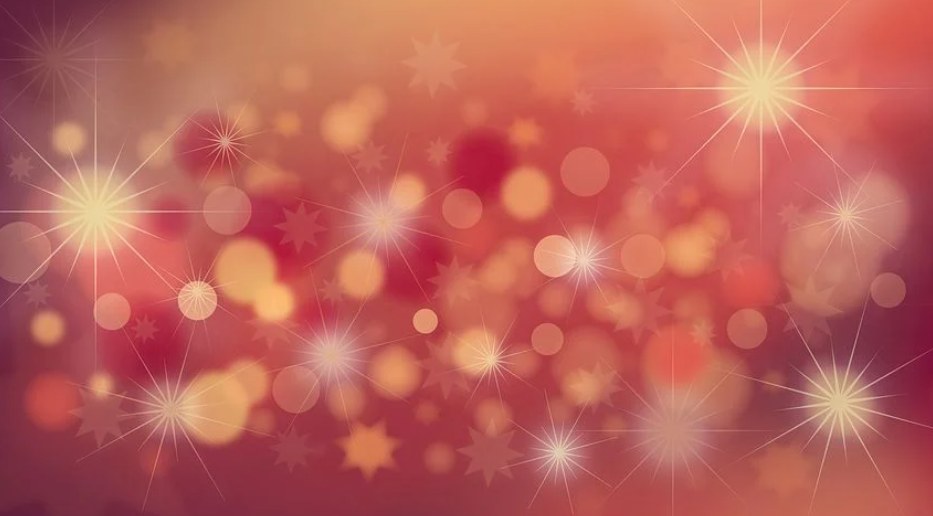
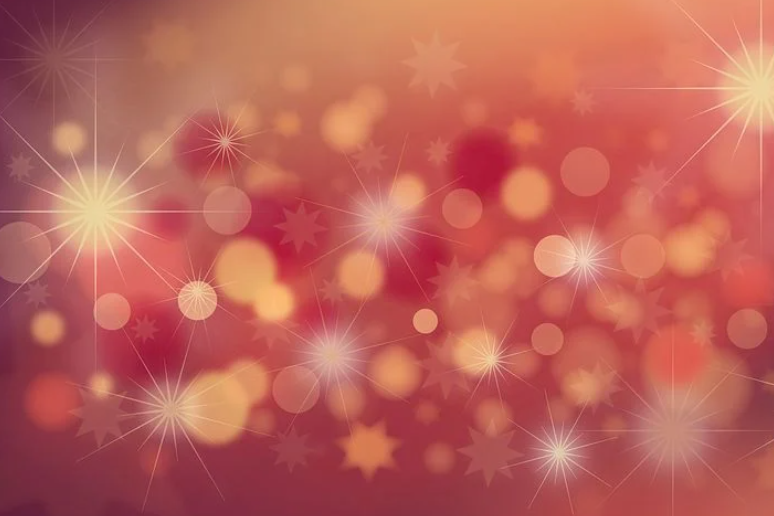
added readme and edited the css for links

diff --git a/index.html b/index.html
@@ -13,28 +13,31 @@
             <h1 class="headertext"> Marc Hamilton</h1>
             <nav>
                 <ul class="header-nav">
-                    <li><a href="#"> About Me </a> </li>
-                    <li><a href="#"> Work </a> </li>
-                    <li><a href="#"> Contact Me </a> </li>
+                    <li><a href="#about-me"> About Me </a> </li>
+                    <li><a href="#work"> Work </a> </li>
+                    <li><a href="#contact-me"> Contact Me </a> </li>
                     <li><a href="#"> Resume </a> </li>
                 </ul>
             </nav>
         </header>
 <!-- Section 1; control the About me portion of the page. -->
         <section>
-            <div class="about-me-div">
+            <div class="about-me-div" id="about-me">
                 <h2 class="big-words">About me</h2> 
-                  <p class="about-me-p"> I am 21 years old, have 2 pets Foster (my cat)
+                  <p class="about-me-p">     I am 21 years old, have 2 pets Foster (my cat)
                         and Hamlet (my dog), I enjoy playing card and video games, watching shows,
-                            reading and more recently have begun to enjoy learning about web devolempment. 
+                            reading and more recently have begun to enjoy learning about web devolempment.
+                            <br> 
                         I currently enjoy playing around with CSS the most in web devolempment,
-                        being able to play around with designs and learn as I want to do more with it.
+                        being able to play around with designs and learn everyday as I want to do more with it. 
+                        I have always enjoyed the struggle of learning more as time goes on, challenges motivate
+                        me. 
                     </p> 
             </div>    
         </section>
 <!-- Section 2; control the links of the Work portion. -->
         <section> 
-            <h2 class="big-words"> Work</h2>
+            <h2 class="big-words" id="work"> Work</h2>
             
             <div class="work-links">
                 <figure class="Horiseon"> 
@@ -67,14 +70,20 @@
                     </a>
                     <figcaption><a href="#">(Fake link) Vacation spots</a></figcaption>
                 </figure>
+                <figure> 
+                    <a href="#">
+                    <img src="./assets/images/box-of-toys.png" alt="Box of toys"></img>
+                    </a>
+                    <figcaption><a href="#">(Fake link) Toy store</a></figcaption>
+                </figure>
             </div>
 
         </section>
 
         <footer>
-        <h2 class="big-words"> Contact Me</h2>
+        <h2 class="big-words" id="contact-me"> Contact Me</h2>
 
-        <div class="Contact-me">
+        <div class="contact-me">
             <ul>
                 <li><a href="https://www.linkedin.com/feed/">LinkedIn </a></li>
                 <li><a href="https://github.com/Marcosauras">Github</a></li>

diff --git a/assets/css/style.css b/assets/css/style.css
@@ -9,10 +9,13 @@
     padding: 0px;
     box-sizing: border-box;
     font-family: Cambria, Cochin, Georgia, Times, 'Times New Roman', serif;
-    
+}
+
+html{
+    scroll-behavior: smooth;
 }
 body{
-    background-image: url(/assets/images/Photo-of-Flordia-cropped.jpg);
+    background-image: url(/assets/images/Photo-of-Flordia.jpg);
 }
 h1 {
     display: flex;
@@ -25,7 +28,7 @@ h1 {
 }
 /* setting the headers color and size */
 header { 
-    background-image: url(/assets/images/Photo-of-Flordia-cropped.jpg);
+    background-image: url(/assets/images/Photo-of-Flordia.jpg);
     background-color: #5dc5a1;
     background-size: 100%;
     min-height: 175px;
@@ -39,12 +42,21 @@ section {
     color: rgb(7, 7, 7);
 }
 
-
+li a{
+    text-decoration: none;
+}
+li a:hover{
+    margin: 0px;
+    color: azure; 
+}
+li {
+    list-style: none;
+}
 
 footer{
+    display: flex;
     padding: 20px;
     background-color: rgb(209, 220, 231);
-    border-radius: var(--border-rad);
     border: 5px solid var(--border-color);
     margin: 5px;
 }
@@ -78,17 +90,18 @@ footer{
 .headertext{
     color: rgb(0, 0, 0); 
 }
+/* This only control the headers of each section, About-me, Work and Contact me */
 .big-words {
     display: flex;
+    writing-mode: sideways-rl;
     background-color: lightblue;
     border-radius: 2px;
+    padding-left: 8px;
+    padding-right: 8px;
     margin: 5px;
-    justify-content: center;
     border: 3px solid var(--border-color);
-}
-
-.about-me-div{
-    display: block;
+    align-items: center;
+    font-size: 40px;
 }
 
 .about-me-p {
@@ -96,19 +109,19 @@ footer{
     background-color: rgb(105, 168, 115);
     align-items: center;
     margin: 5px;
-    padding: 5px;
+    padding: 10px;
     border: 4px solid var(--border-color);
-    border-radius: var(--border-rad);
     font-size: 18px;
 }
 
 .work-links {
     display: flex;
     flex-wrap: wrap;
+    justify-content: space-around;
     background-color: rgb(105, 160, 142);
-    border-radius: var(--border-rad);
     border: 5px solid var(--border-color);
     margin: 5px;
+    padding-bottom: 5px;
 }
 
 .work-links a{
@@ -133,7 +146,4 @@ footer{
 .work-links figcaption{
     display: flex;
     justify-content: center;
-}
-
-.contact-me {
 }

diff --git a/README.md b/README.md
@@ -1,1 +1,30 @@
-# Challenge-2
+# Marc's Portfolio
+
+# Description
+This portfolio is to be used to compile all of my informaiton that is protaining to me and my coding journey, it includes currently a paragragh of me, and the projects I have worked on, past ones, current ones and ones that I am going to make in the future. This will also give anyone who wants a way to contact me a way to do so, either by linkedIn, email, phone number, or github. 
+
+
+## Requirements
+A connection to the internet and a chrome web browser will give you access to this webpage. Just go to #
+by typing it into the URL of your web browser and you will be abke to go to this webpage.
+
+## Usage
+
+This website is useful to any employers who would like to see what I have completed and what I am currently working on, along with ways to contact me if you would like to comunicate directly to me. 
+Provide instructions and examples for use.
+
+![Screenshot-of-marcs-portfolio](./assets/images/Screenshot-of-marcs-portfolio.png "Marc's Portfolio")
+
+if you would like to go to any of my projects just click on the photo or text under said folder and it will take you to the porject that corasponds with it.
+
+for example if you were to click on the horiseon image it would then take you to the horiseon webpage.
+
+![Horiseons homepage](./assets/images/Horiseon-Home-page-image.png "Horiseons homepage")
+
+## Credits
+Marc Hamilton
+
+## License
+
+Please refer to the license in the github repo.
+
